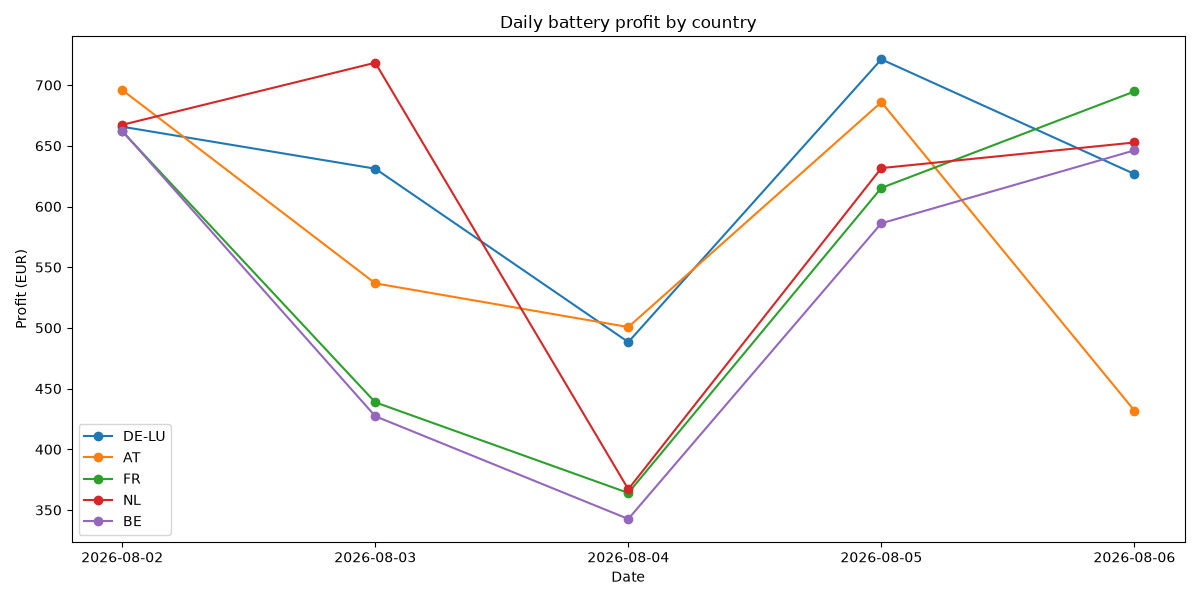
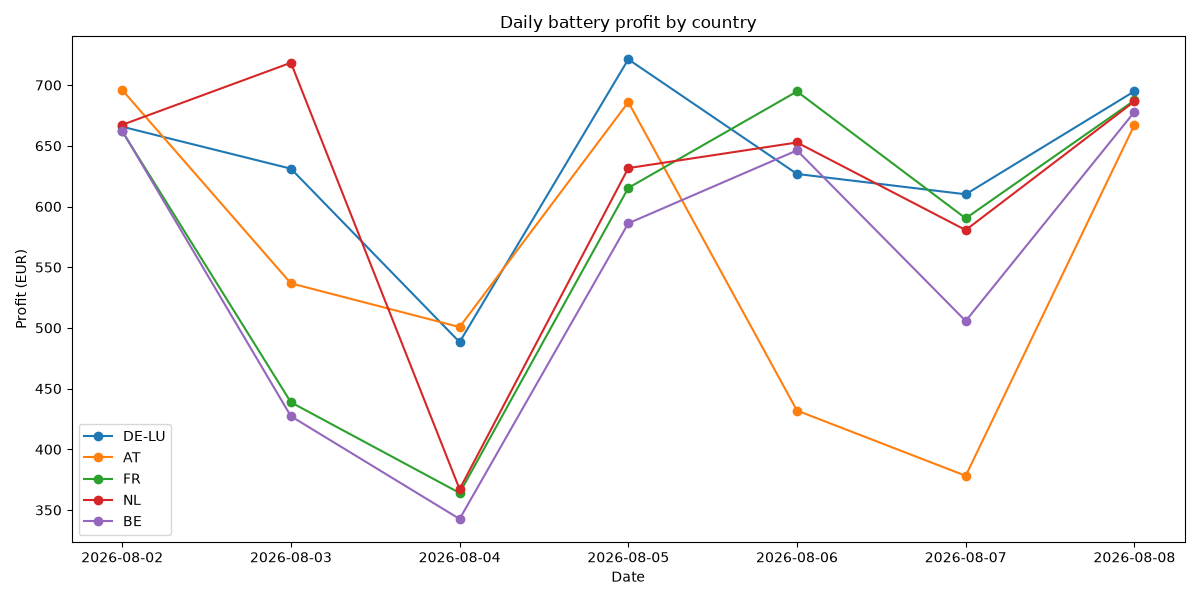
Refresh backtest and comparison with 7 days of data

diff --git a/src/baseline.py b/src/baseline.py
@@ -69,6 +69,8 @@ if __name__ == "__main__":
         "2026-08-04": 488.31,
         "2026-08-05": 721.23,
         "2026-08-06": 626.80,
+        "2026-08-07": 610.06,
+        "2026-08-08": 694.94,
     }
     results_df["optimizer_profit_eur"] = results_df["date"].map(optimizer_profits)
 

diff --git a/README.md b/README.md
@@ -62,13 +62,13 @@ Running the same backtest across all 5 tracked bidding zones (Aug 2-6, 2026):
 
 ![Multi-country backtest](data/processed/backtest_summary_all_countries.png)
 
-| Country | Avg. daily profit | Total (5 days) |
+| Country | Avg. daily profit | Total (7 days) |
 |---------|-------------------|-----------------|
-| DE-LU   | €626.64            | €3,133.21       |
-| NL      | €607.44            | €3,037.19       |
-| FR      | €554.95            | €2,774.76       |
-| AT      | €570.25            | €2,851.25       |
-| BE      | €532.92            | €2,664.58       |
+| DE-LU   | €634.03            | €4,438.21       |
+| NL      | €614.90            | €4,304.32       |
+| FR      | €578.91            | €4,052.39       |
+| AT      | €556.65            | €3,896.56       |
+| BE      | €549.74            | €3,848.15       |
 
 DE-LU shows the highest average arbitrage profit, plausibly reflecting Germany's
 high renewable energy share (wind/solar), which tends to produce more volatile
@@ -87,7 +87,7 @@ top 25%")? Comparing both strategies on DE-LU across the same 5 days:
 ![Naive vs optimizer comparison](data/processed/naive_vs_optimizer.png)
 
 The LP optimizer beats the naive rule on every single day tested, averaging
-**9.1% higher profit**. The gap is largest on more volatile days, since a
+**8.8% higher profit** across 7 days. The gap is largest on more volatile days, since a
 fixed-threshold rule can't adapt to the specific shape of each day's price
 curve the way a full-day optimization can.
 
